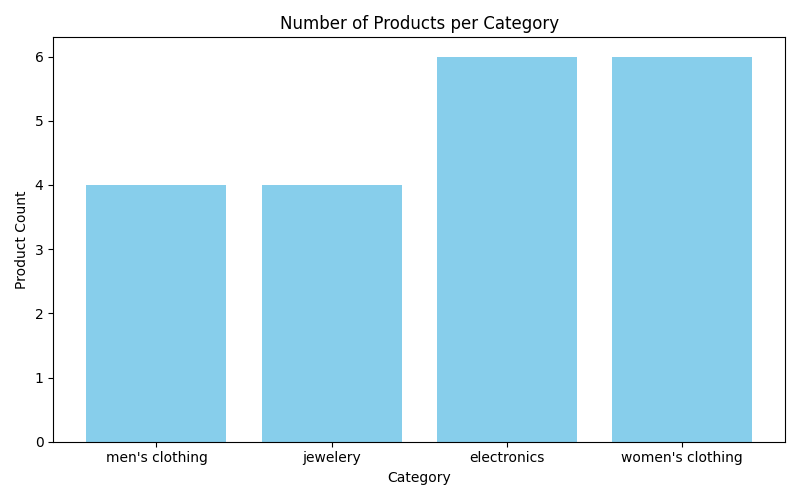
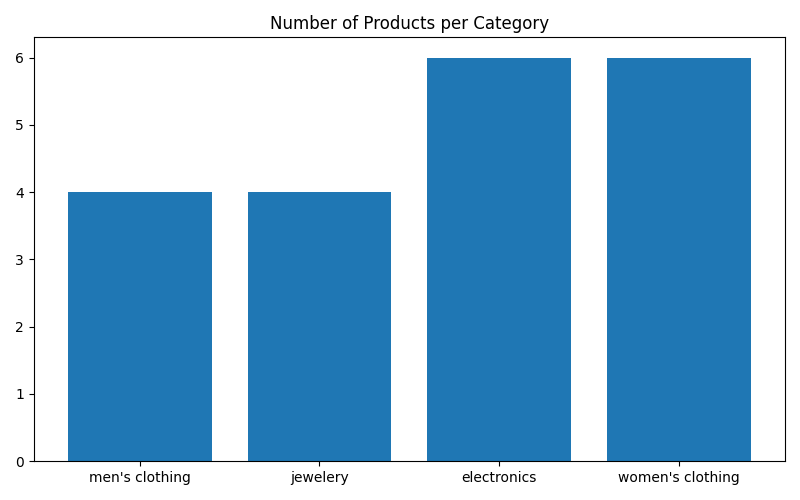
finished

diff --git a/fakestore_analysis.py b/fakestore_analysis.py
@@ -4,11 +4,18 @@ from tabulate import tabulate
 import matplotlib.pyplot as plt
 
 def fetch_data():
+    """Fetch product data from FakeStoreAPI"""
     url = 'https://fakestoreapi.com/products'
-    response = requests.get(url)
-    return response.json()
+    try:
+        response = requests.get(url)
+        response.raise_for_status()
+        return response.json()
+    except requests.RequestException as e:
+        print(f"Failed to fetch data: {e}")
+        return []
 
 def create_database(conn):
+    """Create SQLite tables: products, categories, ratings"""
     c = conn.cursor()
     c.executescript('''
         DROP TABLE IF EXISTS products;
@@ -41,17 +48,16 @@ def create_database(conn):
     conn.commit()
 
 def insert_data(conn, products):
+    """Insert product and rating data into the database"""
     c = conn.cursor()
     for p in products:
         c.execute('INSERT OR IGNORE INTO categories (name) VALUES (?)', (p['category'],))
         c.execute('SELECT id FROM categories WHERE name = ?', (p['category'],))
         cat_id = c.fetchone()[0]
-
         c.execute('''
             INSERT INTO products (id, title, price, category_id)
             VALUES (?, ?, ?, ?)
         ''', (p['id'], p['title'], p['price'], cat_id))
-
         c.execute('''
             INSERT INTO ratings (product_id, rate, count)
             VALUES (?, ?, ?)
@@ -59,31 +65,32 @@ def insert_data(conn, products):
     conn.commit()
 
 def analytics(conn):
+    """Perform and print various data analysis results"""
     c = conn.cursor()
 
+    # 1. Average price per category
     print("\n📊 [1] Average Price and Product Count per Category:")
     result = c.execute('''
-        SELECT cat.name AS Category, 
-               COUNT(p.id) AS Total_Products, 
-               ROUND(AVG(p.price),2) AS Average_Price
+        SELECT cat.name, COUNT(p.id), ROUND(AVG(p.price), 2)
         FROM products p
         JOIN categories cat ON p.category_id = cat.id
         GROUP BY cat.id
     ''').fetchall()
     print(tabulate(result, headers=["Category", "Total Products", "Average Price"], tablefmt="pretty"))
 
-    print("\n🏆 [2] Top Category by Total Sales (based on rating count):")
+    # 2. Top category by total sales
+    print("\n🏆 [2] Top Category by Total Sales:")
     result = c.execute('''
-        SELECT cat.name, SUM(r.count) AS Total_Sold
+        SELECT cat.name, SUM(r.count)
         FROM ratings r
         JOIN products p ON r.product_id = p.id
         JOIN categories cat ON p.category_id = cat.id
         GROUP BY cat.id
-        ORDER BY Total_Sold DESC
-        LIMIT 1
+        ORDER BY SUM(r.count) DESC LIMIT 1
     ''').fetchone()
     print(f"Category: {result[0]} | Total Sold: {result[1]}")
 
+    # 3. Top 5 selling products
     print("\n🔥 [3] Top 5 Best Selling Products:")
     result = c.execute('''
         SELECT p.title, r.count
@@ -94,6 +101,7 @@ def analytics(conn):
     ''').fetchall()
     print(tabulate(result, headers=["Product Title", "Sold Count"], tablefmt="pretty"))
 
+    # 4. Products with higher-than-average ratings
     print("\n⭐ [4] Products With Rating Higher Than Category Average:")
     result = c.execute('''
         SELECT p.title, cat.name, r.rate, (
@@ -116,8 +124,10 @@ def analytics(conn):
     print(tabulate(result, headers=["Product", "Category", "Rating", "Category Avg"], tablefmt="pretty"))
 
 def plot_graphs(conn):
+    """Generate bar, pie, and horizontal bar graphs from data"""
     c = conn.cursor()
 
+    # 1. Products per category
     c.execute('''
         SELECT cat.name, COUNT(p.id)
         FROM products p
@@ -129,14 +139,13 @@ def plot_graphs(conn):
     counts = [row[1] for row in data]
 
     plt.figure(figsize=(8, 5))
-    plt.bar(categories, counts, color='skyblue')
+    plt.bar(categories, counts)
     plt.title("Number of Products per Category")
-    plt.xlabel("Category")
-    plt.ylabel("Product Count")
     plt.tight_layout()
     plt.savefig("bar_products_per_category.png")
     plt.show()
 
+    # 2. Sales distribution
     c.execute('''
         SELECT cat.name, SUM(r.count)
         FROM ratings r
@@ -149,26 +158,25 @@ def plot_graphs(conn):
     sizes = [row[1] for row in data]
 
     plt.figure(figsize=(6, 6))
-    plt.pie(sizes, labels=labels, autopct='%1.1f%%', startangle=140)
-    plt.title("Sales Distribution by Category (Rating Count)")
+    plt.pie(sizes, labels=labels, autopct='%1.1f%%')
+    plt.title("Sales Distribution by Category")
     plt.axis('equal')
     plt.savefig("pie_sales_by_category.png")
     plt.show()
 
+    # 3. Top 5 selling products
     c.execute('''
         SELECT p.title, r.count
         FROM ratings r
         JOIN products p ON r.product_id = p.id
-        ORDER BY r.count DESC
-        LIMIT 5
+        ORDER BY r.count DESC LIMIT 5
     ''')
     data = c.fetchall()
     titles = [row[0][:20] + "..." if len(row[0]) > 20 else row[0] for row in data]
     counts = [row[1] for row in data]
 
     plt.figure(figsize=(10, 5))
-    plt.barh(titles, counts, color='orange')
-    plt.xlabel("Sold Count")
+    plt.barh(titles, counts)
     plt.title("Top 5 Best Selling Products")
     plt.gca().invert_yaxis()
     plt.tight_layout()
@@ -177,6 +185,9 @@ def plot_graphs(conn):
 
 def main():
     data = fetch_data()
+    if not data:
+        print("No data to process.")
+        return
     conn = sqlite3.connect("fakestore_advanced.db")
     create_database(conn)
     insert_data(conn, data)
